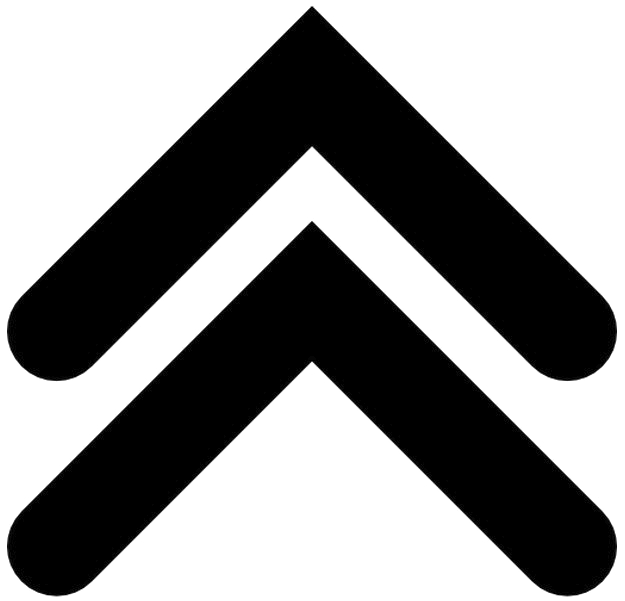
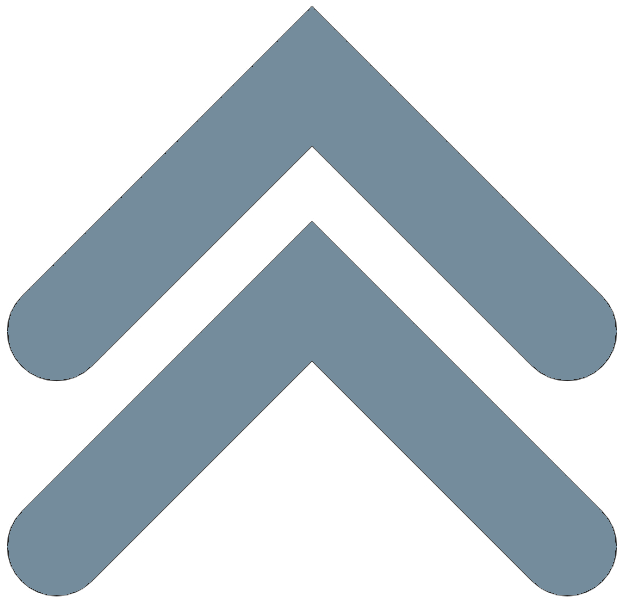
FullProject layout & content updates

diff --git a/src/store/reducers/projects.js b/src/store/reducers/projects.js
@@ -5,36 +5,41 @@ const initalState = {
   projects: {
     burgerBuilder: {
       title: 'Burger Builder',
+      liveDemoLink: 'https://react-burger-builder-679aa.web.app/',
       previewTechStack: 'Javascript, React, Redux, Redux-Saga, Firebase, Css',
-      techStack:
-        'JavaScript, React, React-Router, Redux, Redux-Saga, Axios, Firebase realtime database, Firebase Hosting',
-      gitHub: 'https://github.com/Kwarn/burger-builder',
+      gitHubLink: 'https://github.com/Kwarn/burger-builder',
       courseLink:
         'https://www.udemy.com/course/react-the-complete-guide-incl-redux/',
-      description: 'Learned alot.',
+      description:
+        "This app allows users to create and order their own customized burger. Features include authentication, user's order history, automatic login and preservation of the users session. ",
+      lessons:
+        'Multiple approaches to Handling State, Authentication tokens and localStorage, Asynchronous actions, Class-based components and lifecycle hooks, Functional components and react hooks, Higher order components, Form validation, Database rules configuration',
     },
     SquarePlayground: {
       title: 'Square Playground',
       previewTechStack: 'Javascript, React, Redux, Css, Html',
-      techStack: 'Javascript, React, Redux',
-      gitHub: 'placeholder',
+
+      gitHubLink: 'placeholder',
       description: 'Gambling game',
+      lessons: '',
     },
     Fitness: {
       title: 'Fitness app',
       previewTechStack: 'Python, Tkinter, SQlite3',
-      techStack: 'Python, Tkinter, SQlite3',
-      gitHub: 'https://github.com/Kwarn/fitness',
+
+      gitHubLink: 'https://github.com/Kwarn/fitness',
       description: 'fitness app, learned lots',
+      lessons: '',
     },
     shutdownTimer: {
       title: 'Shutdown Timer',
       previewTechStack: 'Python, tkinter',
       image: '',
-      techStack: 'Python, tkinter',
-      gitHub: 'placeholder',
+
+      gitHubLink: 'placeholder',
       description:
         'Desktop Application for setting an automatic shutdown/reset/sleep time',
+      lessons: '',
     },
   },
   fullProject: 'burgerBuilder',

diff --git a/src/containers/Projects/Project/Project.js b/src/containers/Projects/Project/Project.js
@@ -25,23 +25,36 @@ const Project = props => {
     }
   }
 
-  const drawDrop =(
-    <div className={!showFullProject ? classes.OpenDrawWrapper : classes.CloseDrawWrapper}>
+
+  const drawDrop = (
+    <div
+      className={
+        !showFullProject ? classes.OpenDrawWrapper : classes.CloseDrawWrapper
+      }
+      onClick={()=> setShowFullProject(!showFullProject)}
+    >
       <img
         className={classes.DrawIcon}
         src={!showFullProject ? imageAssets.openDraw : imageAssets.closeDraw}
-        alt={!showFullProject ? "openDraw" : 'closeDraw'}
+        alt={!showFullProject ? 'openDraw' : 'closeDraw'}
       />
     </div>
   )
 
-
   const fullProject = showFullProject ? (
-    <FullProject projectId={projectId} desc={project.description} />
+    <FullProject
+      projectId={projectId}
+      desc={project.description}
+      lessons={project.lessons}
+      demoLink={project.liveDemoLink}
+      gitHubLink={project.gitHubLink}
+      courseLink={project.courseLink}
+      techStack={project.techStack}
+    />
   ) : null
 
   return (
-    <> 
+    <>
       <div className={classes.ProjectWrapper}>
         <div
           className={classes.Project}

diff --git a/src/assets/assets.js b/src/assets/assets.js
@@ -1,5 +1,5 @@
 const imageAssets = {
-  burgerBuilder: require('../assets/burger.png'),
+  burgerBuilder: require('../assets/burgerBuilder.png'),
   javascript: require('../assets/javascript.png'),
   python: require('../assets/python.png'),
   react: require('../assets/react.png'),
@@ -10,7 +10,9 @@ const imageAssets = {
   javascriptCertificate: require('../assets/javascriptCertificate.jpg'),
   reactCertificate: require('../assets/reactCertificate.jpg'),
   openDraw: require('../assets/openDraw.png'),
-  closeDraw: require('../assets/closeDraw.png')
+  closeDraw: require('../assets/closeDraw.png'),
+  homeBackground: require('../assets/homeBackground.jpg'),
+  gitHub: require('../assets/gitHub.png')
 }
 
 export default imageAssets

diff --git a/src/components/FullProject/FullProject.js b/src/components/FullProject/FullProject.js
@@ -3,10 +3,17 @@ import imageAssets from '../../assets/assets'
 import classes from './FullProject.module.css'
 
 const FullProject = props => {
-  console.log(props)
+  const listItems = props.lessons.split(', ').map(lesson => (
+    <li className={classes.ListItem} key={lesson}>
+      {lesson}
+    </li>
+  ))
+
   const projectElement = (
     <div className={classes.FullProject}>
       <p className={classes.Desc}>{props.desc}</p>
+      <p className={classes.ListHeader}>What I learned:</p>
+      <ul className={classes.List}>{listItems}</ul>
       <img src={imageAssets[props.projectId]} alt="burgerBuilder" />
     </div>
   )

diff --git a/src/components/FullProject/FullProject.module.css b/src/components/FullProject/FullProject.module.css
@@ -1,6 +1,6 @@
 .FullProject {
-  background-color: #85a2bb;
-  border: 1px solid rgb(0, 0, 0);
+  background-color: #748DA1;
+  border: 1px 0px 0px 1px solid rgb(0, 0, 0);
   box-shadow: 0 5px 10px rgb(0, 0, 0);
   margin: 0px 15px 20px 15px;
   padding: 5px;
@@ -8,9 +8,17 @@
   animation: openFullProject 0.3s ease-in-out;
 }
 
-/* .FadeIn {
-  animation: openFullProject;
-} */
+.ListHeader {
+  text-decoration: underline;
+
+  text-align: center;
+  padding-top: 15px;
+}
+
+.List {
+  margin: 10px;
+  padding: 5px 0px 5px 15px;
+}
 
 @keyframes openFullProject {
   0% {

diff --git a/src/containers/Projects/Project/Project.module.css b/src/containers/Projects/Project/Project.module.css
@@ -6,7 +6,7 @@
 
 .Project {
   height: 100px;
-  border: 1px solid rgb(0, 0, 0);
+  border: 1px 1px 0px 1px  solid rgb(0, 0, 0);
   box-shadow: 0 5px 10px rgb(0, 0, 0);
   margin: 20px 15px 0px 15px;
   overflow: hidden;
@@ -31,17 +31,22 @@
   height: auto;
 }
 
+.DrawIcon:hover{
+  width: 20px;
+  margin-bottom: -5px;
+}
+
 .Title {
   overflow: visible;
   grid-column: 1/3;
   font-size: 1.5em;
-  padding: 5px;
+  padding: 10px;
   margin-top: 3px;
 }
 
 .Tech {
   grid-column: 1/4;
-  padding: 5px;
+  padding: 10px;
 }
 
 .Image {

diff --git a/src/App.module.css b/src/App.module.css
@@ -1,14 +1,10 @@
 .App {
-  height: 100%;
-  background: #2e3341;
-  background: -moz-linear-gradient(top, #2e3341 0%, #195e8e 25%, #ffffff 100%);
-  background: -webkit-linear-gradient(
-    top,
-    #2e3341 0%,
-    #195e8e 25%,
-    #ffffff 100%
-  );
-  background: linear-gradient(to bottom, #2e3341 0%, #195e8e 25%, #ffffff 100%);
+  background-image: url('./assets/homeBackground.jpg');
+  width: 100%;
+  height: auto;
+  min-height: 100%;
+  min-width: 100%;
+  object-fit: contain;
 }
 
 .App ::-webkit-scrollbar {

diff --git a/src/containers/Home/Home.js b/src/containers/Home/Home.js
@@ -1,18 +1,10 @@
 import React from 'react'
-import { Link } from 'react-router-dom'
+import classes from './Home.module.css'
 
 const Home = props => {
   return (
-    <div>
-      <Link to='/cv'>
-        <button>Cv</button>
-      </Link>
-      <Link to='/projects'>
-        <button>Projects</button>
-      </Link>
-      <Link to='/contact'>
-        <button>Contact</button>
-      </Link>
+    <div className={classes.Home}>
+      <h1>Testing</h1>
     </div>
   )
 }

diff --git a/src/containers/Home/Home.module.css b/src/containers/Home/Home.module.css
@@ -1,0 +1,9 @@
+.Home {
+  min-height: 100%;
+  min-width: 100%;
+  width: 900px;
+  height: 100%;
+}
+
+
+
